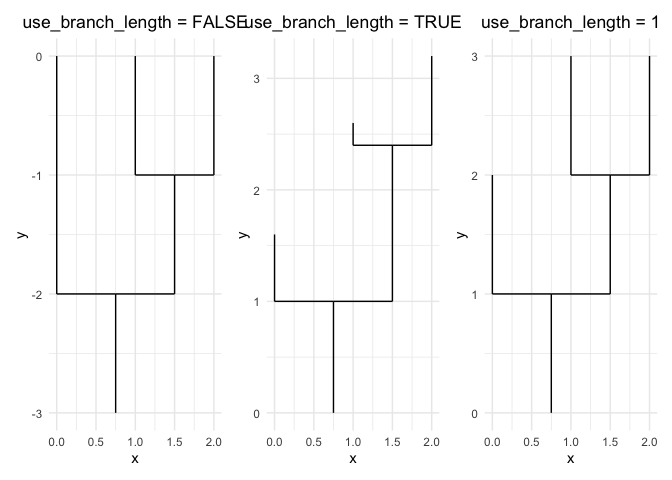
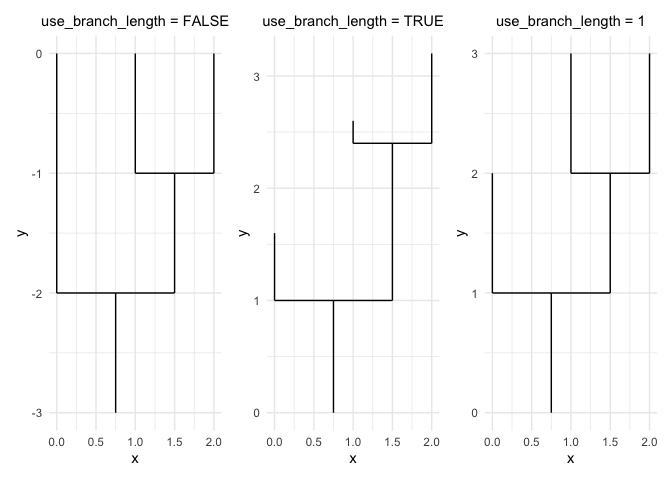
update readme

diff --git a/README.md b/README.md
@@ -499,7 +499,7 @@ ubl_const_plot <- ggplot() +
   ubl_false_plot |
   ubl_true_plot |
   ubl_const_plot
-) & theme_minimal() + theme(plot.title = element_text(hjust = 0.5))
+) & theme_minimal() + theme(plot.title = element_text(hjust = 0.5, size = 11))
 ```
 
 <img src="man/figures/README-unnamed-chunk-17-1.png" width="100%" />
@@ -616,7 +616,7 @@ Here is the same plot in the three variants.
   make_plot(layout_recphylo(recphylo_xml, use_branch_length = 1, branch_length_scale = 5), title = "use_branch_length = 1")
 ) +
   plot_layout(guide = "collect") &
-  theme(plot.title = element_text(hjust = 0.5))
+  theme(plot.title = element_text(hjust = 0.5, size = 11), legend.position = "bottom")
 ```
 
 <img src="man/figures/README-unnamed-chunk-21-1.png" width="100%" />
